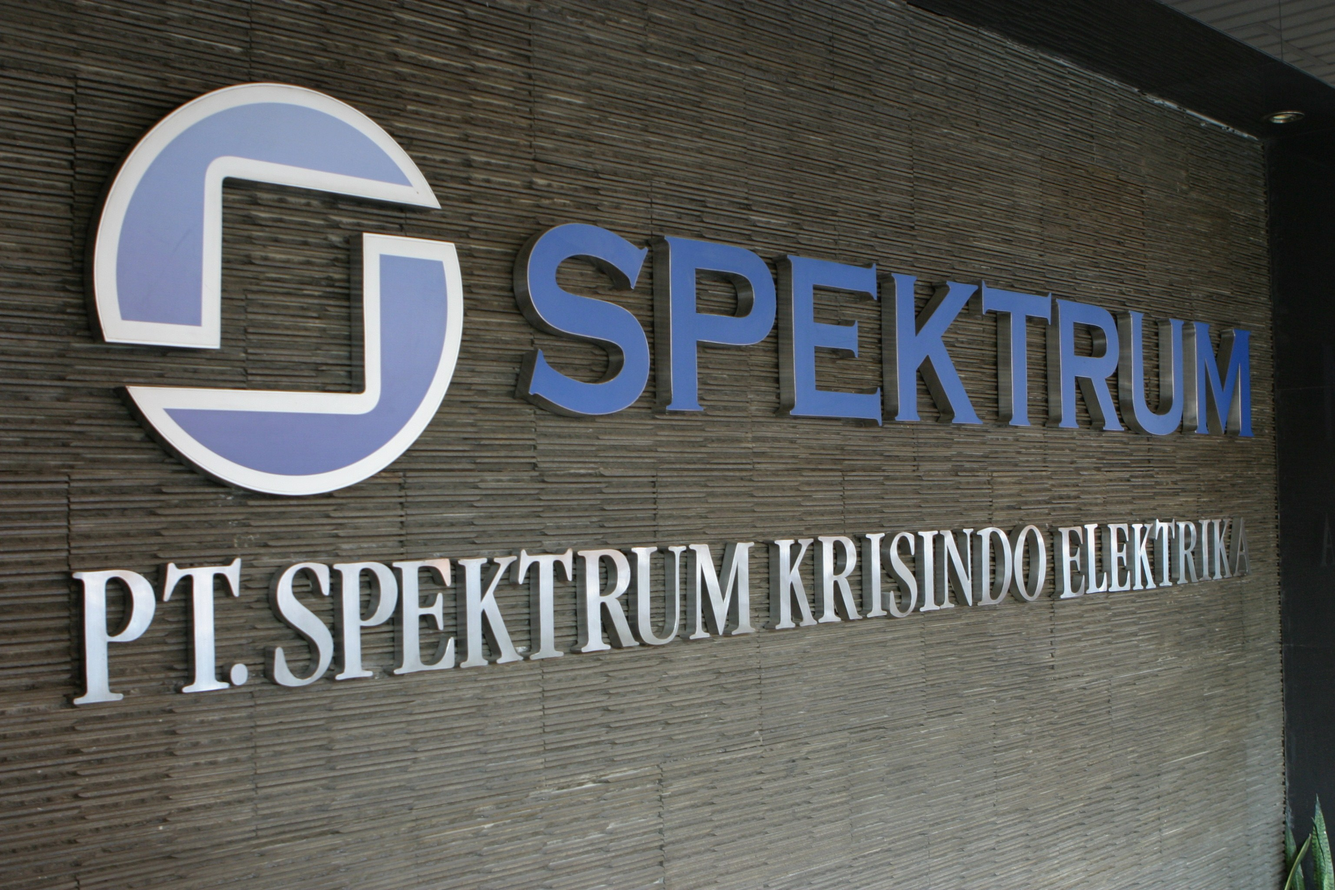
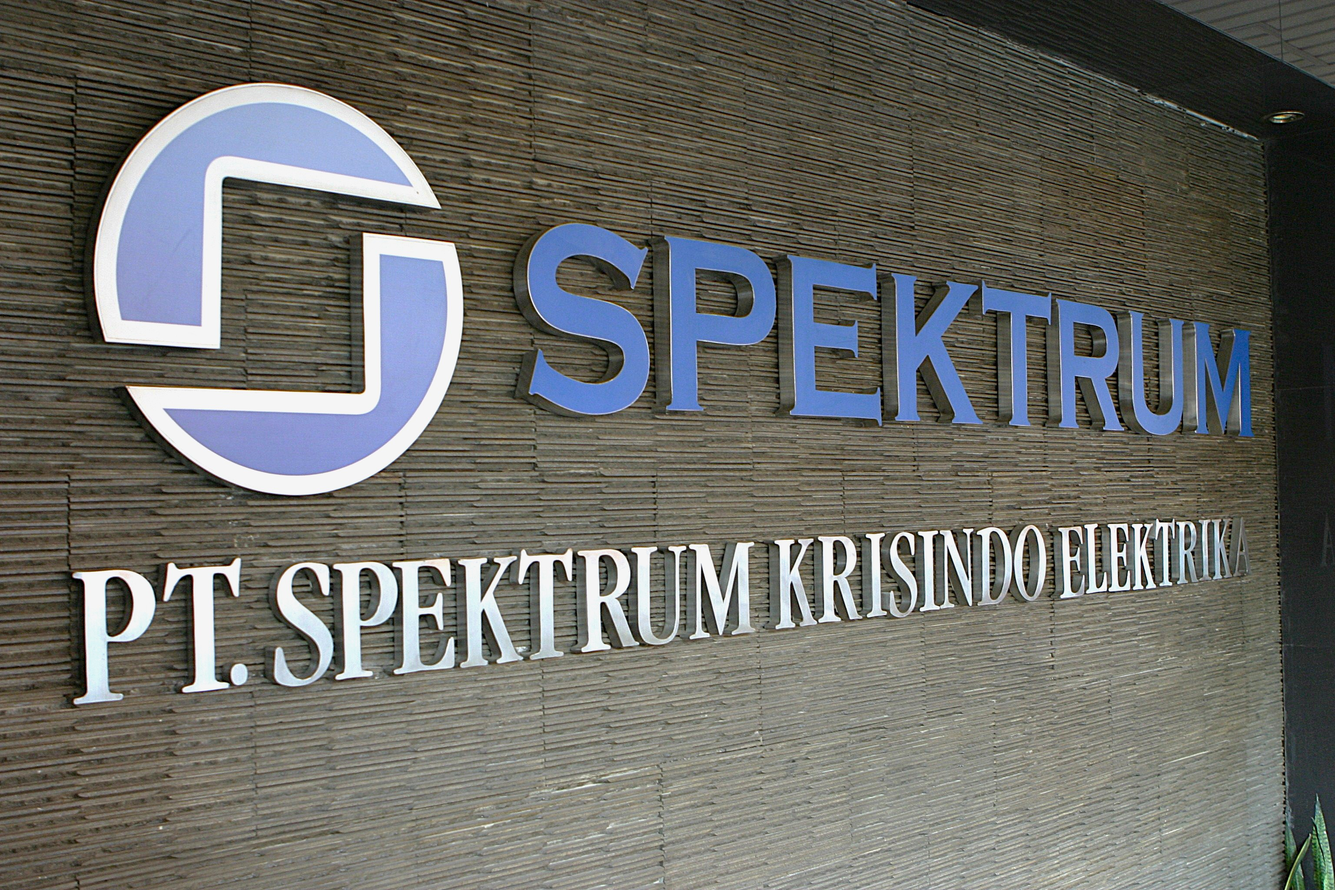
2

Changed region(s): [[0.0, 0.0, 1.0, 1.0]]

diff --git a/assets/css/main.css b/assets/css/main.css
@@ -1565,7 +1565,7 @@ section {
   height: 100vh;
   min-height: 25em;
   background-color: var(--color-secondary);
-  background-image: url("../img/logo3.JPG");
+  background-image: url("../img/IMG_0382.JPG");
   background-size: cover;
   background-position: center;
   background-repeat: no-repeat;
